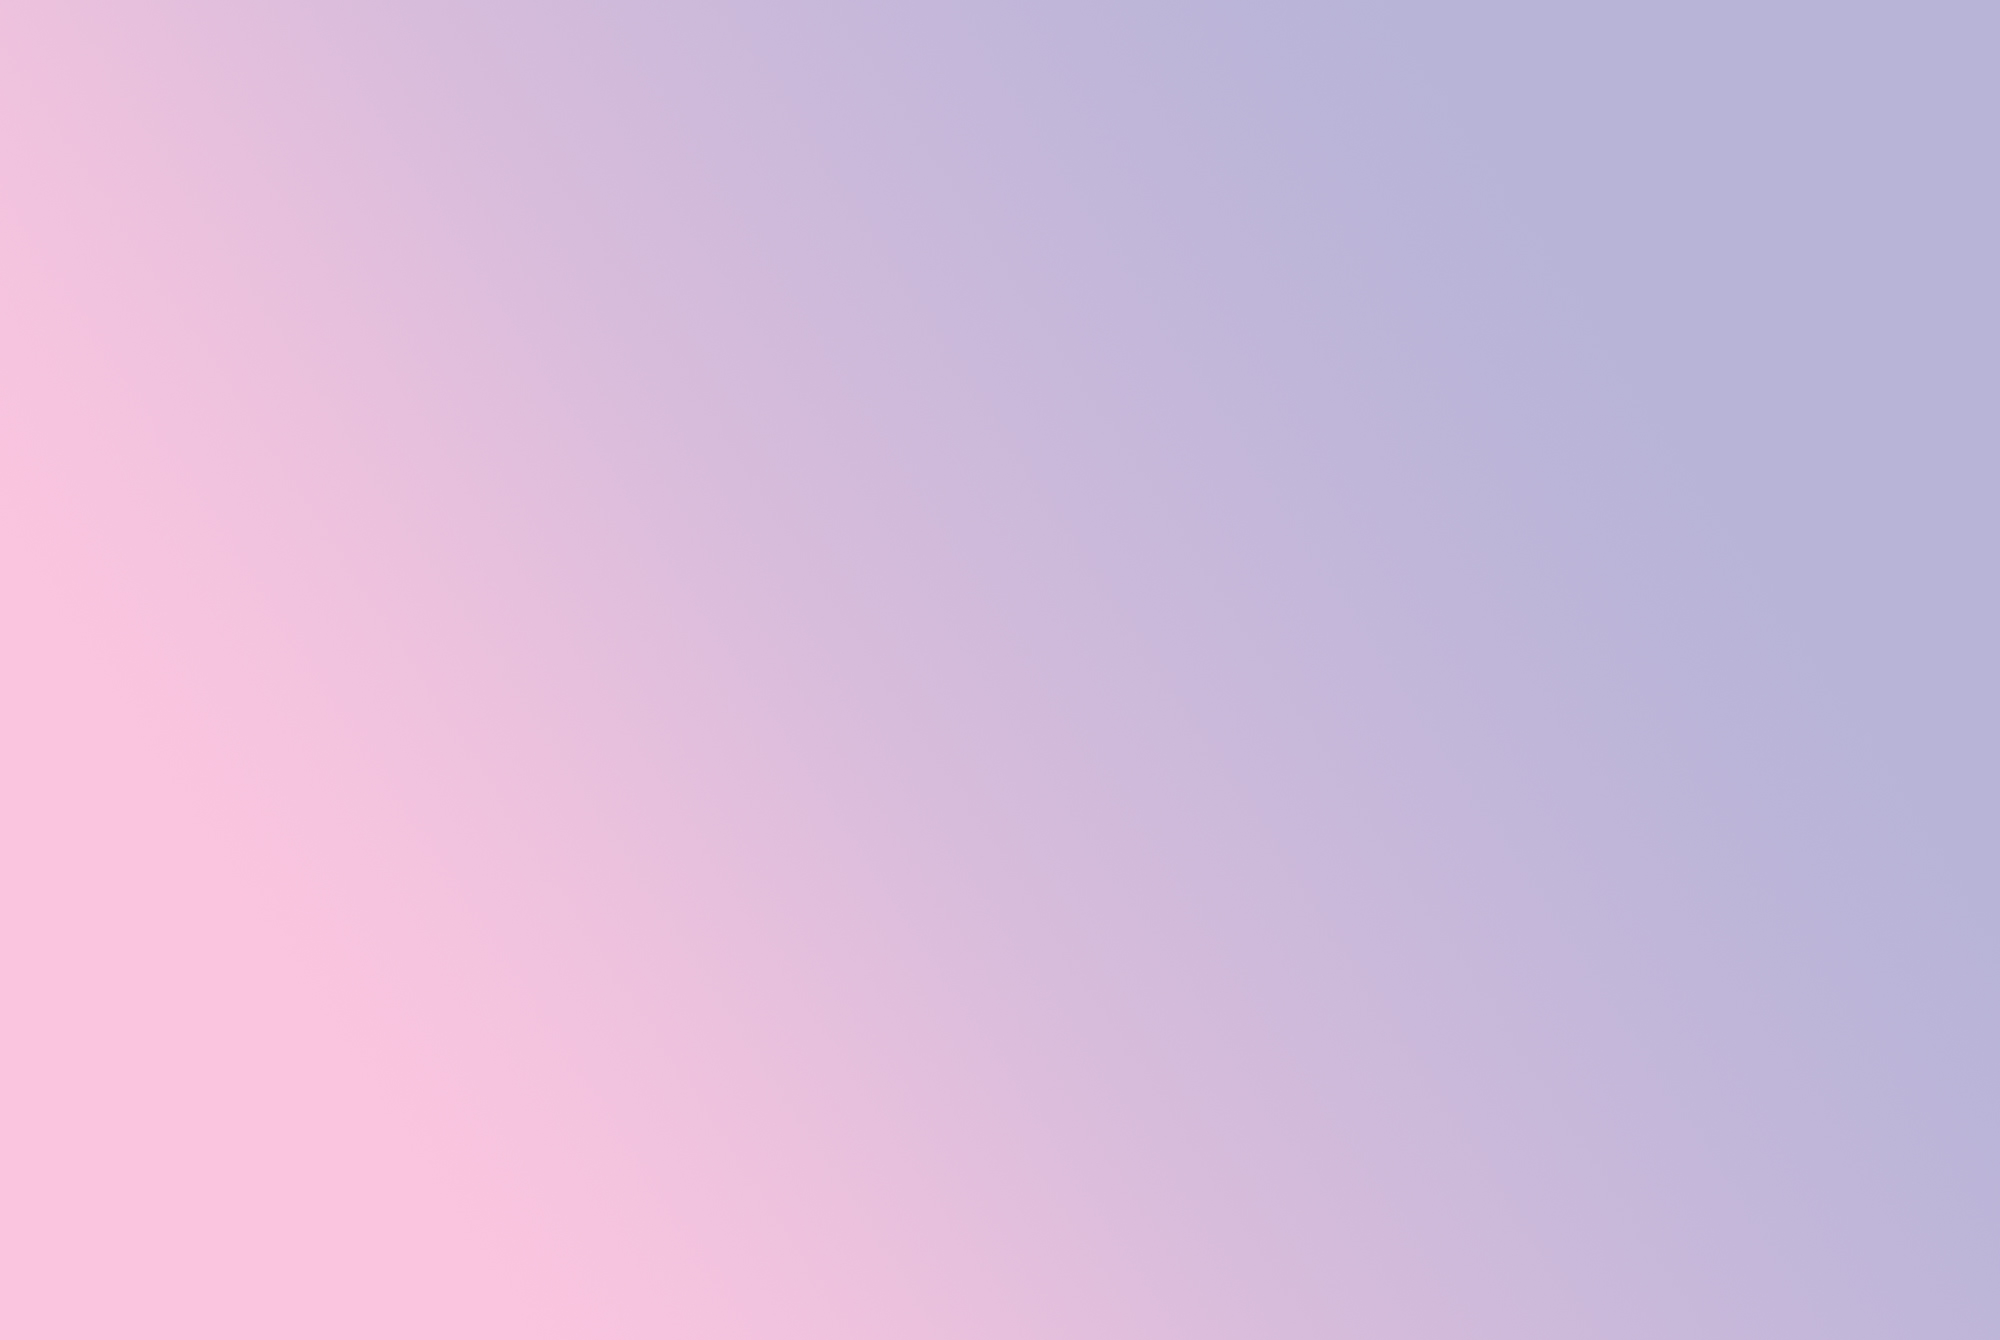
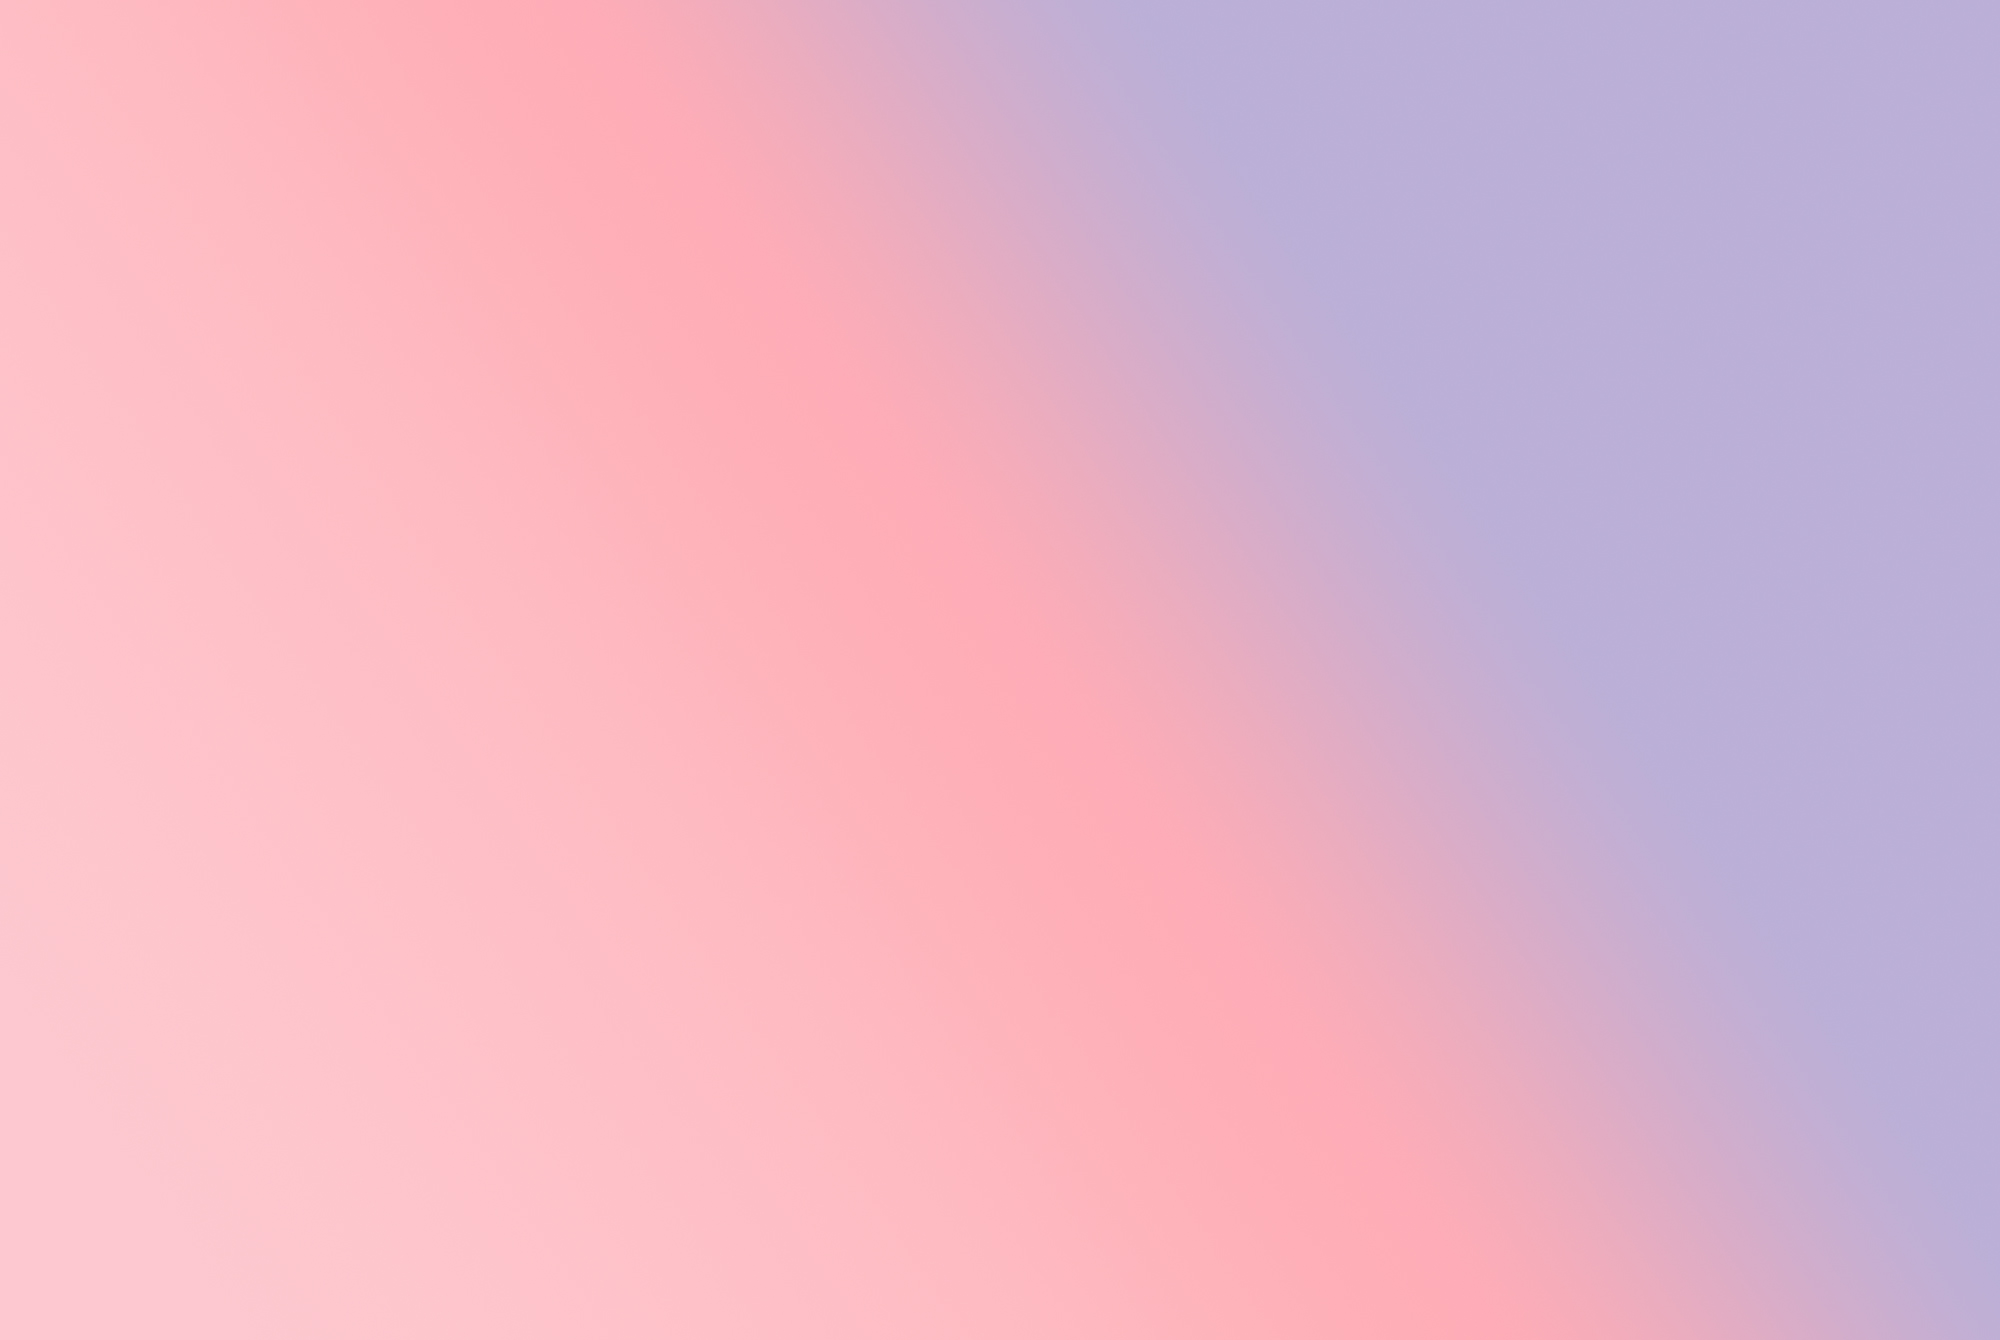
portfolio update

diff --git a/css/component.css b/css/component.css
@@ -50,9 +50,89 @@ body {
     width: 40px;
 }
 
+/*background*/
+#background {position: absolute; top: 0; width: 100%; height: 100vh;}
+#background h2 {width: 0; height: 0; text-indent: -999px; overflow: hidden;}
+#background div.scroll-page {position: absolute; top: 0; left: 0; width: 100%; height: 100vh;}
+#background div.scroll-page:nth-child(2) {background: url(../img/bg-title.jpg) no-repeat left top /cover;}
+#background div.scroll-page:nth-child(3) {background: url(../img/bg-profile.jpg) no-repeat;}
+#background div.scroll-page:nth-child(4) {background: url(../img/bg-skills.jpg) no-repeat;}
+#background div.scroll-page:nth-child(5) {background: url(../img/bg-uiux.jpg) no-repeat;}
+#background div.scroll-page:nth-child(6) {background: url(../img/bg-workpro.jpg) no-repeat;}
+#background div.scroll-page:nth-child(7) {background: url(../img/bg-end.jpg) no-repeat;}
+#background div.scroll-page img {
+    position: absolute; 
+    right: 10%; 
+    top: 50%; 
+    transform: translate(0, -50%); 
+    max-width: 900px; 
+    width: 45%; 
+    min-width: 250px; 
+    box-shadow: 30px 40px 40px rgba(0, 0, 0, 0.6);
+}
+#background div.scroll-page div.skill-wrap {
+    position: absolute; 
+    right: 10%; 
+    top: 50%; 
+    transform: translate(0, -50%); 
+    max-width: 900px; 
+    width: 45%; 
+    min-width: 250px; 
+    background:transparent;
+}
+
+#background div.scroll-page div.skill-wrap div.row{
+    width: 100%; 
+}
+
+#background div.scroll-page div.skill-wrap div.row div.chart{
+    display: inline-block; 
+    width: 20%; 
+    margin: 0 5px 5px 0; 
+    line-height: 30px; 
+    text-align: center;
+    float:left; 
+}
+
+.chart p{
+    color: #fff;
+    font-size: 50px;
+}
+.chart p sup{
+    font-size: 35px;
+    margin-left:-20px;
+    top:-5px;
+}
+
+#background div.scroll-page div.skill-wrap div.row div.chart div.skills-content{
+    text-align: center;
+}
+#background div.scroll-page div.skill-wrap div.row div.chart div.skills-content > h3{
+    color: #fff;
+    font-size: 22px;
+    font-weight: bold;
+}
+#background div.scroll-page div.skill-wrap div.row div.chart div.skills-content > p{
+    color: #fff;
+    font-size: 16px;
+    line-height: 28px;
+}
+
+@media screen and (max-width: 960px) {
+    #background div.scroll-page img {right: auto; left: 50%; top: 30%; transform: translate(-50%, -50%);}
+}
+
 
 /*header*/
-#header h1 {position: absolute; top: 180px; left: 40px; font-size: 25px; font-weight: lighter; z-index: 4;color:#fff;}
+#header h1 {
+    position: absolute; 
+    top: 180px; 
+    left: 40px; 
+    font-size: 25px; 
+    font-weight: lighter; 
+    z-index: 4;
+    color:#fff;
+}
 #header h1 em {font-weight: bold;}
 #header div.logo{
     position: absolute; 
@@ -62,20 +142,68 @@ body {
     height: 46px;
     z-index: 4;
 }
-#header div.menu {position: absolute; top: 40px; right: 40px; width: 46px; height: 46px; line-height: 50px; border-radius: 50px; text-align: center; background:transparent; border:2px solid #fff;  z-index: 4;}
+#header div.menu {
+    position: absolute; 
+    top: 40px; 
+    right: 40px; 
+    width: 46px; 
+    height: 46px; 
+    line-height: 50px; 
+    border-radius: 50px; 
+    text-align: center; 
+    background:transparent; 
+    border:2px solid #fff;  
+    z-index: 4;
+}
 #header div.menu a {position: relative; display: inline-block; width: 20px; height: 13px; overflow: hidden;}
 #header div.menu a:before {content: ''; position: absolute; top: 0; left: 0; width: 100%; height: 1px; background: #fff;}
 #header div.menu a:after {content: ''; position: absolute; bottom: 0; left: 0; width: 100%; height: 1px; background: #fff;}
-#header div.menu span {position: absolute; top: 50%; left: 0; transform: translate(0, -50%); width: 100%; height: 1px; text-indent: -999px; overflow: hidden; background: #fff;}
-#gnb {position: absolute; top: 0; right: -100%; width: 44%; height: 100vh; padding: 30px; box-sizing: border-box; z-index: 3; transition: 0.4s ease-in-out;}
+#header div.menu span {
+    position: absolute;
+    top: 50%; 
+    left: 0; 
+    transform: translate(0, -50%); 
+    width: 100%; 
+    height: 1px; 
+    text-indent: -999px; 
+    overflow: hidden; 
+    background: #fff;
+}
+#gnb {
+    position: absolute;
+    top: 0; 
+    right: -100%; 
+    width: 44%; 
+    height: 100vh; 
+    padding: 30px; 
+    box-sizing: border-box; 
+    z-index: 3; 
+    transition: 0.4s ease-in-out;
+}
 #header div.menu.open + #gnb {right: 0;}
 #header div.menu.open {
     background:#fff;
 }
 #header div.menu.open a:before {content: ''; position: absolute; top: 0; left: 0; width: 100%; height: 1px; background: #fce5e5;}
 #header div.menu.open a:after {content: ''; position: absolute; bottom: 0; left: 0; width: 100%; height: 1px; background: #fce5e5;}
-#header div.menu.open span {position: absolute; top: 50%; left: 0; transform: translate(0, -50%); width: 100%; height: 1px; text-indent: -999px; overflow: hidden; background: #fce5e5;}
-#gnb ul {width: 100%; height: 100%; padding: 145px 25%; box-sizing: border-box; background: #fce5e5;}
+#header div.menu.open span {
+    position: absolute; 
+    top: 50%; 
+    left: 0; 
+    transform: translate(0, -50%); 
+    width: 100%; 
+    height: 1px; 
+    text-indent: -999px; 
+    overflow: hidden; 
+    background: #fce5e5;
+}
+#gnb ul {
+    width: 100%; 
+    height: 100%; 
+    padding: 145px 25%; 
+    box-sizing: border-box; 
+    background: #fce5e5;
+}
 #gnb ul li {line-height: 70px; width: 80%}
 #gnb ul li a {display: inline-block; font-size: 40px; color: #9b9b9b; font-weight: bold;}
 #gnb ul li.on a,
@@ -98,7 +226,18 @@ body {
 }
 
 /*main*/
-#main a.hidden {position: fixed; left: 0; width: 200px; height: 0; line-height: 30px; text-align: center; color: #ffffff; background: rgba(0, 0, 0, 0.5); overflow: hidden; transition: height 0.3s;}
+#main a.hidden {
+    position: fixed; 
+    left: 0; 
+    width: 200px; 
+    height: 0; 
+    line-height: 30px; 
+    text-align: center; 
+    color: #ffffff; 
+    background: rgba(0, 0, 0, 0.5); 
+    overflow: hidden; 
+    transition: height 0.3s;
+}
 #main a.hidden:focus {height: 30px;}
 #main a.hidden.start {top: 0;}
 #main a.hidden.end {bottom: 0;}
@@ -137,8 +276,23 @@ body {
 #contents > div.up,
 #contents > div.hide-down,
 #contents > div.hide-up {display: block;}
-#contents > div h2 {position: absolute; top: 30px; left: 50%; padding-right: 43px; font-size: 30px; color:#fff;}
-#contents > div h2:after {content: ''; position: absolute; top: 50%; right: 0; width: 40px; height: 1px; background: #fff;}
+#contents > div h2 {
+    position: absolute; 
+    top: 30px; 
+    left: 50%; 
+    padding-right: 43px; 
+    font-size: 30px; 
+    color:#fff;
+}
+#contents > div h2:after {
+    content: ''; 
+    position: absolute; 
+    top: 50%; 
+    right: 0; 
+    width: 40px; 
+    height: 1px; 
+    background: #fff;
+}
 #contents > div div.detail {
     position: absolute; 
     bottom: 100px; 
@@ -170,12 +324,31 @@ body {
 #contents > div div.detail p.text {font-size: 18px;}
 #contents > div div.detail span.type {display: inline-block; font-size: 25px; font-weight: 700;}
 #contents > div div.detail ul {margin: 10px 0;}
-#contents > div div.detail ul li {line-height: 30px; font-size: 16px; font-weight: 700; font-family: 'Noto Sans KR', sans-serif; word-break: keep-all;}
+#contents > div div.detail ul li {
+    line-height: 30px; 
+    font-size: 16px; 
+    font-weight: 700; 
+    font-family: 'Noto Sans KR', sans-serif; 
+    word-break: keep-all;
+}
 #contents > div div.detail ul li span.text> em {border-bottom:2px solid #222;}
 #contents > div div.detail div.btn-box {width: 100%;}
-#contents > div div.detail div.btn-box a {display: inline-block; width: 45%; margin: 0 5px 5px 0; line-height: 45px; border: 1px solid #222; text-align: center; font-size: 14px; font-weight: 700;}
+#contents > div div.detail div.btn-box a {
+    display: inline-block; 
+    width: 45%; 
+    margin: 0 5px 5px 0; 
+    line-height: 45px; 
+    border: 1px solid #222; 
+    text-align: center; 
+    font-size: 14px; 
+    font-weight: 700;
+}
 #contents > div div.detail div.btn-box a:hover {background: #222; color: #fff;}
-#contents > div div.detail p.notice {font-size: 11px; font-family: 'Noto Sans KR', sans-serif; word-break: keep-all;}
+#contents > div div.detail p.notice {
+    font-size: 11px; 
+    font-family: 'Noto Sans KR', sans-serif; 
+    word-break: keep-all;
+}
 
 @keyframes up {
     0% {opacity: 0; transform: translateY(350px);}
@@ -197,7 +370,16 @@ body {
     #contents > #portfolio03 div.detail h3 {font-size: 35px;}
 }
 @media screen and (max-width: 960px) {
-    #contents {top: auto; bottom: 10px; left: 50%; transform: translate(-50%, 0); width: 80%; height: 40%; background: rgba(0, 0, 0, 0.3); z-index: 1;}
+    #contents {
+        top: auto; 
+        bottom: 10px; 
+        left: 50%; 
+        transform: translate(-50%, 0); 
+        width: 80%; 
+        height: 40%; 
+        background: rgba(0, 0, 0, 0.3); 
+        z-index: 1;
+    }
     #contents > div h2 {position: absolute; top: 10px; left: auto; right: 30px;}
     #contents > div div.detail {position: static; padding: 30px;}
     #contents > div div.detail h3 {font-size: 40px;}
@@ -210,23 +392,6 @@ body {
     #contents > div div.detail p.notice {display: none;}
     #contents > div div.detail div.btn-box a {line-height: 30px; }
 }
-
-/*background*/
-#background {position: absolute; top: 0; width: 100%; height: 100vh;}
-#background h2 {width: 0; height: 0; text-indent: -999px; overflow: hidden;}
-#background div.scroll-page {position: absolute; top: 0; left: 0; width: 100%; height: 100vh;}
-#background div.scroll-page:nth-child(2) {background: url(../img/bg-title.jpg) no-repeat left top /cover;}
-#background div.scroll-page:nth-child(3) {background: url(../img/bg-profile.jpg) no-repeat;}
-#background div.scroll-page:nth-child(4) {background: url(../img/bg-skills.jpg) no-repeat;}
-#background div.scroll-page:nth-child(5) {background: url(../img/bg-uiux.jpg) no-repeat;}
-#background div.scroll-page:nth-child(6) {background: url(../img/bg-workprocess.jpg) no-repeat;}
-#background div.scroll-page:nth-child(7) {background: url(../img/bg-end.jpg) no-repeat;}
-#background div.scroll-page img {position: absolute; right: 10%; top: 50%; transform: translate(0, -50%); max-width: 900px; width: 45%; min-width: 250px; box-shadow: 30px 40px 40px rgba(0, 0, 0, 0.6);}
-
-@media screen and (max-width: 960px) {
-    #background div.scroll-page img {right: auto; left: 50%; top: 30%; transform: translate(-50%, -50%);}
-}
-
 
 
 

diff --git a/index.html b/index.html
@@ -16,9 +16,10 @@
         <link rel="stylesheet" type="text/css" href="./css/animate.css">
 
         <script src="./js/jquery-3.2.1.min.js"></script>
-        <script src="./js/common.js"></script>
-        <script src="./js/jquery.easypiechart.js"></script>
         <script src="https://code.jquery.com/jquery-latest.min.js"></script>
+        <script src="./js/jquery.easypiechart.js"></script>
+        <script src="./js/common.js"></script>
+        
     </head>
     <body class="main">
         <div class="mask">
@@ -93,10 +94,10 @@
                             <span class="type">RESPONSIVE WEBSITE</span>
                         
                             <div class="btn-box">
-                                <a href="">JAVASCRIPT</a>
-                                <a href="">HTML5/CSS</a>
-                                <a href="">BOOTSTRAP</a>
-                                <a href="">JQUERY</a>
+                                <a>JAVASCRIPT</a>
+                                <a>HTML5/CSS</a>
+                                <a>BOOTSTRAP</a>
+                                <a>JQUERY</a>
                             </div>
                         </div>
                     </div>
@@ -121,9 +122,9 @@
                                 </li>
                             </ul>
                             <div class="btn-box">
-                                <a href="" target="_blank">VIEW</a>
-                                <a href="" target="_blank">VIEW</a>
-                                <a href="" target="_blank">VIEW</a>
+                                <a>VIEW</a>
+                                <a>VIEW</a>
+                                <a>VIEW</a>
                             </div>
                         </div>
                     </div>
@@ -170,10 +171,16 @@
                         <img src="./img/profile.png" alt="" />
                     </div>
                     <div class="scroll-page">
-                        <img src="" alt="" />
+                        <img src="./img/skill-wrap.png" alt=""/>
+
+                        <div class="skill-wrap">
+                            <div class="row">
+                            </div> <!-- row -->
+                        </div><!-- skill wrap -->
+
                     </div>
                     <div class="scroll-page">
-                        <img src="" alt="" />
+                        <img src="./img/uiux.png" alt="" />
                     </div>
                     <div class="scroll-page">
                         <img src="" alt="" />
@@ -182,7 +189,7 @@
                 </section>
             </main>
             <footer id="footer">
-                <a href="mailto:tbek12@gmail.com" class="email">tbek12@gamil.com</a>
+               © Copyright 2020 shkim
             </footer>
         </div>
     </body>

diff --git a/js/common.js b/js/common.js
@@ -5,6 +5,16 @@ $(function() {
         $(window).load(function() {
             $(".loading").delay(700).fadeOut();
             $(".mask").delay(800).fadeOut("slow");
+            /*----------------------------- Skill Chart --------------------------*/
+            $('.chart').easyPieChart({
+                animate: 3000,
+                lineWidth: 17,
+                barColor: '#f9cccc',
+                lineCap: 'round',
+                scaleColor: false,
+                trackColor: '#fef0f0',
+                size: 100
+            });
         });
     });
     
